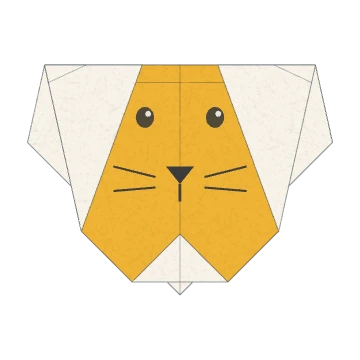
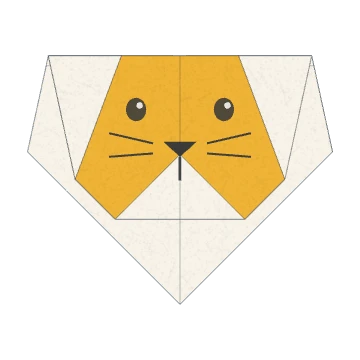
사자 얼굴: 도안 맞춤 검사 추가, 접는 선을 도안 비율로 다시 잡음
- scripts/refs/lion.json 추가 (Origami Club lion zu.gif, 그림 5장)
- 처음 검사에서 4번·완성 그림 실패(완성 IoU 0.865, 색 0.704):
  위를 뒤로 접는 선(y=0.05)이 너무 높아 뒤로 넘긴 흰 세모가 얼굴 아래로
  거의 나오지 않았다. 도안 완성 그림은 흰 세모가 얼굴 아래로 뾰족하게 나온 오각형.
- makeLion(params)로 바꾸고 --fit 으로 찾음: 위 접는 선 -0.03,
  아래 꼭짓점 접는 선 -0.515, 옆 접는 선 (±0.285,-0.515)–(±0.44,0.2)
- 결과: 4번 IoU 0.887→0.944, 완성 IoU 0.865→0.990 / 색 0.704→0.971
- 얼굴이 아래로 옮겨져 눈·코·수염 꾸미기 좌표를 새 얼굴(색종이 면) 위로 다시 잡음
- 썸네일 다시 만듦
- 참고: 완성 그림 상자가 오른쪽 꼭짓점을 잘라 바깥 선이 끊기면 흰 면이 마스크에서 빠진다

Changed region(s): [[0.0611, 0.1528, 0.9472, 0.8556]]

diff --git a/src/models/lion.js b/src/models/lion.js
@@ -5,7 +5,12 @@ import { eye, fillPoly, PENCIL } from './parts/draw.js';
 const R = Math.SQRT1_2;
 const whisker = (a, b) => ({ line: [a, b], w: 0.006, color: PENCIL });
 
-export const lion = {
+export const lionParams = { top: -0.03, bot: -0.515, a: 0.285, c: 0.44 };
+
+export function makeLion({ top, bot, a, c } = lionParams) {
+  return {
+  params: { top, bot, a, c },
+  make: makeLion,
   id: 'lion',
   name: '사자 얼굴',
   level: 1,
@@ -19,20 +24,23 @@ export const lion = {
   done: '사자 얼굴 완성!',
   steps: [
     { text: '색깔 면이 위로 오게 마름모로 놓고, 가로·세로로 반씩 접었다 펴서 선을 만들어요.', moves: [{ line: [[-1, 0], [1, 0]], side: [0, 1], unfold: true }, { line: [[0, -1], [0, 1]], side: [1, 0], unfold: true }] },
-    { text: '아래 꼭짓점을 조금 접어 올려요.', moves: [{ line: [[-1, -0.57], [1, -0.57]], side: [0, -R] }] },
-    { text: '왼쪽을 비스듬한 점선에서 안으로 접어요. 하얀 갈기가 생겨요.', moves: [{ line: [[-0.25, -0.57], [-0.42, 0.2]], side: [-R, 0] }] },
-    { text: '오른쪽도 똑같이 접어요.', moves: [{ line: [[0.25, -0.57], [0.42, 0.2]], side: [R, 0] }] },
-    { text: '위쪽을 점선에서 뒤로 접어요.', moves: [{ line: [[-1, 0.05], [1, 0.05]], side: [0, R], toward: -1 }] },
+    { text: '아래 꼭짓점을 조금 접어 올려요.', moves: [{ line: [[-1, bot], [1, bot]], side: [0, -R] }] },
+    { text: '왼쪽을 비스듬한 점선에서 안으로 접어요. 하얀 갈기가 생겨요.', moves: [{ line: [[-a, bot], [-c, 0.2]], side: [-R, 0] }] },
+    { text: '오른쪽도 똑같이 접어요.', moves: [{ line: [[a, bot], [c, 0.2]], side: [R, 0] }] },
+    { text: '위쪽을 점선에서 뒤로 접어요.', moves: [{ line: [[-1, top], [1, top]], side: [0, R], toward: -1 }] },
     {
       text: '연필로 눈과 코, 수염을 그리면 완성!',
       view: [0, 0, 1],
       draw: [
-        ...eye(-0.1, -0.1, 0.026), ...eye(0.1, -0.1, 0.026),
-        fillPoly([[-0.04, -0.24], [0.04, -0.24], [0, -0.29]], PENCIL),
-        { line: [[0, -0.29], [0, -0.34]], w: 0.008, color: PENCIL },
-        whisker([-0.07, -0.27], [-0.19, -0.24]), whisker([-0.07, -0.3], [-0.19, -0.31]),
-        whisker([0.07, -0.27], [0.19, -0.24]), whisker([0.07, -0.3], [0.19, -0.31]),
+        ...eye(-0.13, -0.19, 0.03), ...eye(0.13, -0.19, 0.03),
+        fillPoly([[-0.05, -0.285], [0.05, -0.285], [0, -0.33]], PENCIL),
+        { line: [[0, -0.33], [0, -0.4]], w: 0.008, color: PENCIL },
+        whisker([-0.08, -0.29], [-0.21, -0.26]), whisker([-0.08, -0.32], [-0.21, -0.33]),
+        whisker([0.08, -0.29], [0.21, -0.26]), whisker([0.08, -0.32], [0.21, -0.33]),
       ],
     },
   ],
 };
+}
+
+export const lion = makeLion();
